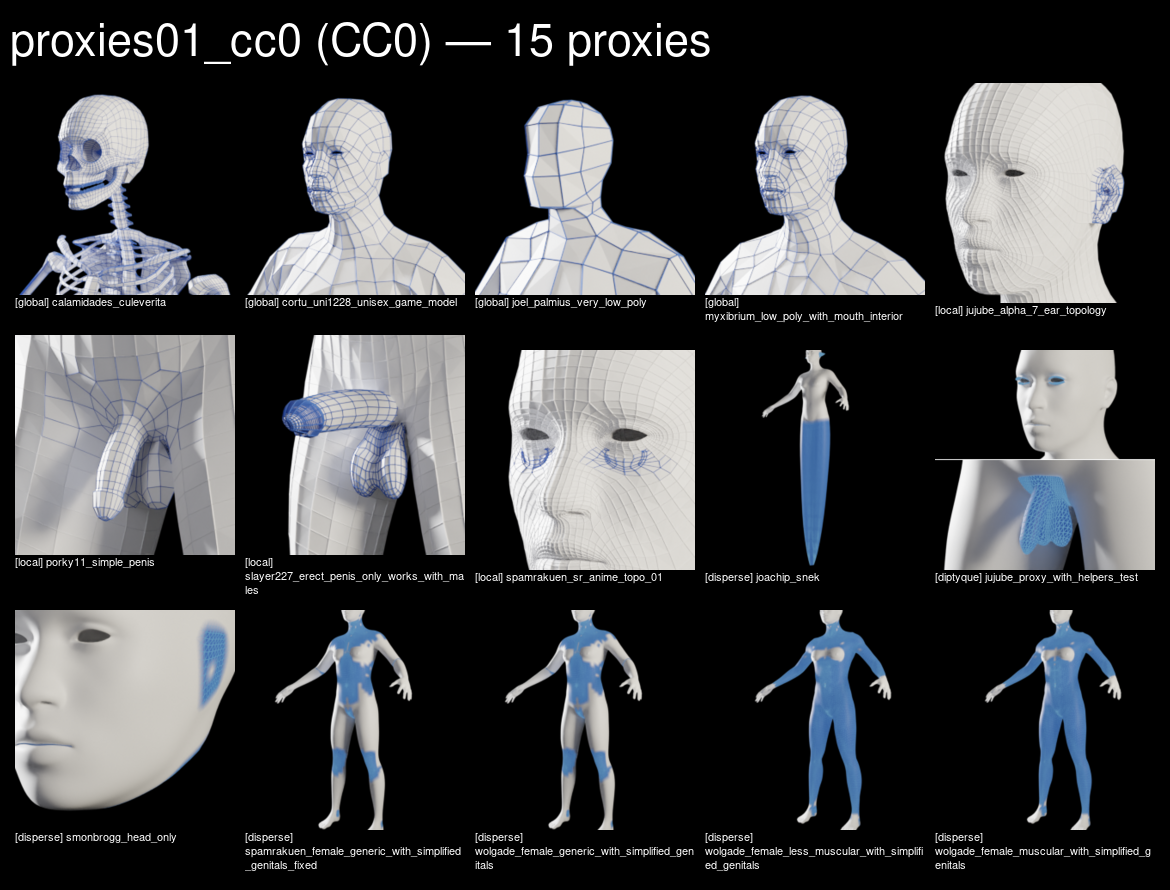
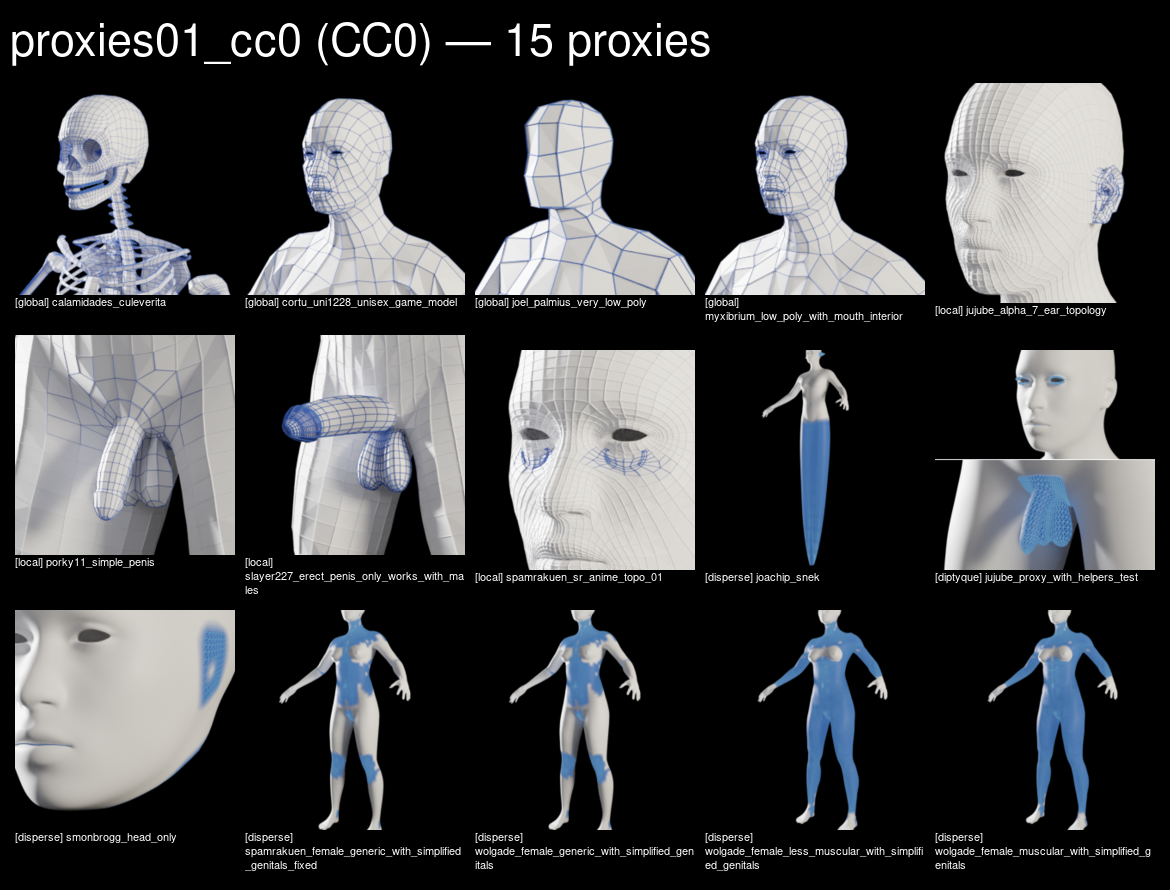
Le corps porteur suit le sexe de l'asset, quand l'asset en a un
Régression trouvée sur une remarque de Raphaël : `wolgade_female_muscular`
et `less_muscular` sortaient sur le corps neutre, un mélange à parts égales
où toute leur raison d'être, une morphologie féminine, se perdait.

La fonction qui devine le corps d'après le nom existait depuis le 06-09,
avec cette raison écrite noir sur blanc, mais n'était branchée que sous
--auto, que la recette n'utilise pas. Une décision prise, puis perdue faute
d'être sur le chemin réellement emprunté.

--guess-body la branche, en drapeau séparé plutôt qu'en élargissant --auto,
qui fait aussi le classement : le canon garde le prix payé pour une variable
qui servait à deux usages.

8 assets sur 29 concernés, 4 féminins, 4 masculins. Le choix précède la
mesure et non le seul rendu, l'écart au corps servant à classer : vérifié,
le régime ne change pour aucun des 29 et les chiffres bougent de quelques
dixièmes. Planches de contact regénérées.

diff --git a/bin/rendermeshthumbs.py b/bin/rendermeshthumbs.py
@@ -84,6 +84,7 @@ resolution_forcee = None  # --resolution <px> : override carre
 corps_force = None       # --base-force neutral|male|female
 dilatation_zone = 0      # --paint-dilate N : N anneaux de voisins en plus
 paquet_de_zones = None   # --frame-zone haut|bas
+deviner_corps = False    # --guess-body : le corps suit le nom de l'asset
 polyptyque = False       # --polyptych : overview + une cellule par grappe
 zone_a_la_couronne = None  # --zone-to-top <marge> : voir plus bas
 part_emission = None     # --paint-emission : 0,55 par defaut, voir PART_EMISSION
@@ -1834,6 +1835,8 @@ while index < len(argv):
         vraies_aretes = True
     elif argument == "--auto":
         auto = True
+    elif argument == "--guess-body":
+        deviner_corps = True
     elif argument == "--measure-only":
         mesurer_seulement = True
     elif argument == "--frame-new":
@@ -1945,7 +1948,8 @@ for (name, mhclo_file) in assets:
     # ⚠ Et « female » ne doit pas declencher « male » : les mots sont cherches
     # entiers, entoures d'espaces, jamais en sous-chaine. « unisex » ne
     # declenche donc rien non plus, ce qui est le comportement voulu.
-    corps_voulu = corps_force or (deviner_le_sexe(name) if auto else BODY)
+    corps_voulu = corps_force or (deviner_le_sexe(name)
+                                  if (auto or deviner_corps) else BODY)
     basemesh = activer_le_corps(corps_voulu) or bpy.data.objects[corps_voulu]
     bpy.context.view_layer.update()
     bpy.context.view_layer.objects.active = basemesh

diff --git a/docs/planches/README.md b/docs/planches/README.md
@@ -27,7 +27,7 @@ base mesh" does.
 | | |
 |---|---|
 | background | black, opaque |
-| body | near-white, neutral (one exception below) |
+| body | near-white. Neutral by default, **female or male when the asset is sex-specific** (8 of the 29, read from name, title and catalogue category) |
 | colour | one blue for everything mesh-related |
 | edges | real mesh edges — **not** the Wireframe node, which draws the engine's triangulation |
 | colour blindness | blue keeps its full area under all three forms; the previous orange dropped to 0,01 % under tritanopia |
@@ -36,7 +36,7 @@ base mesh" does.
 
 `jujube_proxy_with_helpers_test` changes two areas far apart (pelvis, face).
 No single frame serves both, so it is a **stacked diptych**, face above,
-anatomy below. Only proxy rendered on the male body.
+anatomy below.
 
 ## Regenerate
 
